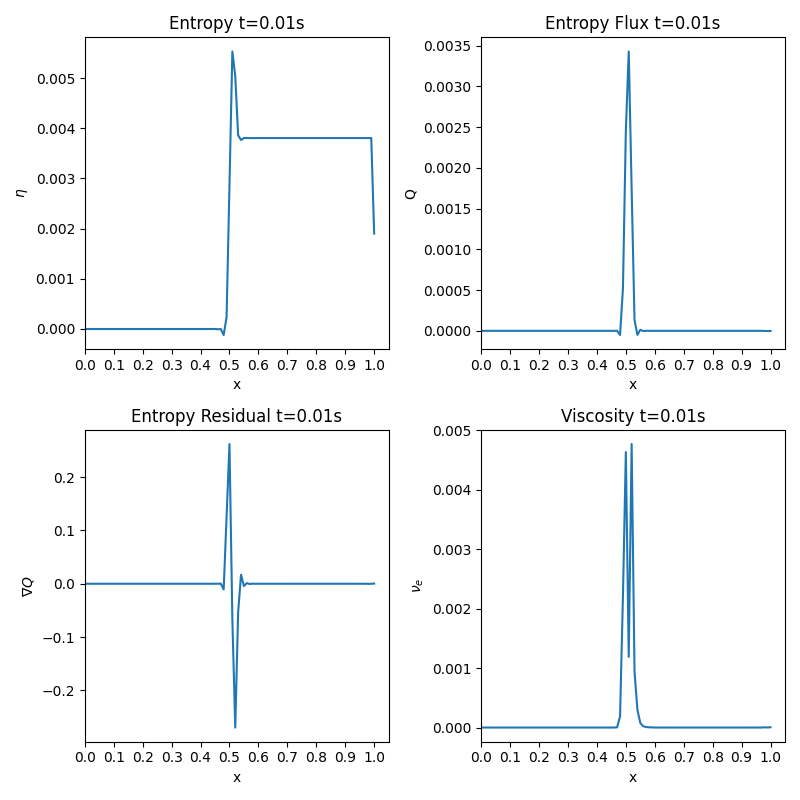
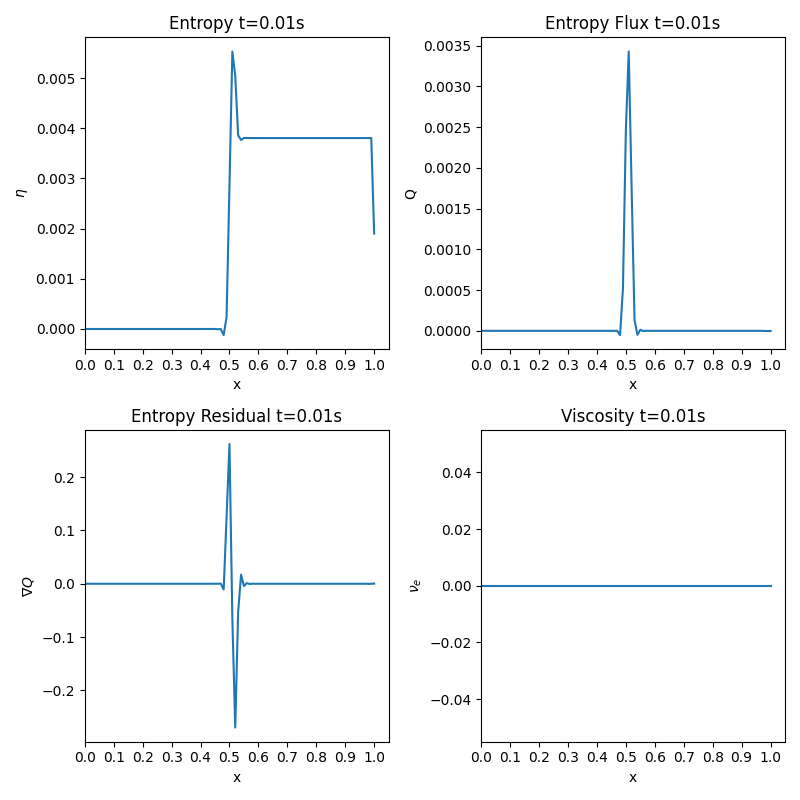
cleaned up code

diff --git a/functions.py b/functions.py
@@ -279,7 +279,97 @@ def assemble_TG_one_step(U_current, numel, xnode, N_mef, Nxi_mef, wpg, gamma, dt
             
     return M, F, K
 
-def assemble_TG_two_step(U_current, numel, xnode, N_mef, Nxi_mef, wpg, gamma, dt, viscosity_e):
+def assemble_TG_two_step(U_current, numel, xnode, N_mef, Nxi_mef, wpg, gamma, dt):
+    '''
+    (input) U_current tuple: current solution tuple
+    (input) numel int: number of elements
+    (input) xnode arr: Array with x values stored
+    (input) N_mef arr: Array with the shape function 
+    (input) Nxi_mef arr: Array with shape function derivatives
+    (input) wpg arr: Array with weights 
+    (input) gamma float: Ratio of Cv/Cp (7/5 for ideal gas)
+    (input) dt float: timestep
+
+    (output) M: Mass matrix tuple returned by function 
+    (output) F: Flux matrix tuple returned by function
+    '''
+    numnp = numel + 1
+
+    M_rho = np.zeros((numnp, numnp))
+    M_m = np.zeros((numnp, numnp))
+    M_rho_E = np.zeros((numnp, numnp))
+    M = (M_rho, M_m, M_rho_E)
+
+    F_rho = np.zeros(numnp)
+    F_m = np.zeros(numnp)
+    F_rho_E = np.zeros(numnp)
+    F = (F_rho, F_m, F_rho_E)
+
+
+    for i in range(numel):
+        h = xnode[i + 1] - xnode[i]
+        weight = wpg * h / 2
+        isp = [i, i + 1]  # Global number of the nodes of the current element
+
+        # Get value of each variable at current element  
+        rho_el =  U_current[0][isp]
+        m_el =  U_current[1][isp]
+        rho_E_el = U_current[2][isp] 
+        p_el = calc_p(gamma, rho_E_el, m_el, rho_el)
+
+        ngaus = wpg.shape[0]
+
+        F_rho_el = m_el
+        F_m_el = m_el**2/rho_el + p_el
+        F_rho_E_el = (m_el * (rho_E_el + p_el)/ rho_el)
+
+        
+        for ig in range(ngaus):
+            N = N_mef[ig, :]
+            Nx = Nxi_mef[ig, :] * 2 / h
+            w_ig = weight[ig]
+
+            # Intermediate value at integration(Gaussian) point:
+            rho_gp = np.dot(N, rho_el)
+            m_gp = np.dot(N, m_el)
+            rho_E_gp = np.dot(N, rho_E_el)
+
+            F_rho_gpx = np.dot(Nx, F_rho_el)
+            F_m_gpx = np.dot(Nx, F_m_el)
+            F_rho_E_gpx = np.dot(Nx, F_rho_E_el)
+
+            rho_inter = rho_gp - 0.5 * dt * F_rho_gpx
+            m_inter = m_gp - 0.5 * dt * F_m_gpx
+            rho_E_inter = rho_E_gp - 0.5 * dt * F_rho_E_gpx
+            p_inter = calc_p(gamma, rho_E_inter, m_inter, rho_inter)
+
+            F_rho_inter = m_inter
+            F_m_inter = m_inter**2/ rho_inter + p_inter
+            F_rho_E_inter = (m_inter * (rho_E_inter + p_inter)/ rho_inter)
+            
+
+            M_rho[np.ix_(isp, isp)] += w_ig * np.outer(N, N)
+            M_m[np.ix_(isp, isp)] += w_ig * np.outer(N, N)
+            M_rho_E[np.ix_(isp, isp)] += w_ig * np.outer(N, N)
+
+            F_rho[isp] += w_ig * (Nx * F_rho_inter)
+            F_m[isp] += w_ig * (Nx * F_m_inter)
+            F_rho_E[isp] += w_ig * (Nx * F_rho_E_inter)
+
+
+    M_rho[0,0] = 1
+    M_m[0,0] = 1
+    M_rho_E[0,0] = 1
+
+    M_rho[-1, -1] = 1
+    M_m[-1, -1] = 1
+    M_rho_E[-1, -1] = 1  
+
+
+    return M, F
+
+
+def assemble_TG_two_step_EV(U_current, numel, xnode, N_mef, Nxi_mef, wpg, gamma, dt, viscosity_e):
     '''
     (input) U_current tuple: current solution tuple
     (input) numel int: number of elements
@@ -378,6 +468,7 @@ def assemble_TG_two_step(U_current, numel, xnode, N_mef, Nxi_mef, wpg, gamma, dt
     M_m[-1, -1] = 1
     M_rho_E[-1, -1] = 1  
 
+
     viscosity_e = np.abs((h**2 * entropy_res)/np.abs((np.max(entropy)-np.min(entropy))))
 
     ## Building F_viscosity matrix
@@ -399,7 +490,10 @@ def assemble_TG_two_step(U_current, numel, xnode, N_mef, Nxi_mef, wpg, gamma, dt
         p_el = calc_p(gamma, rho_E_el, m_el, rho_el)
         u_el = m_el/rho_el
 
-        viscosity_el =  viscosity_e[isp]
+        c = np.sqrt(gamma * (p_el/rho_el)) 
+        viscosity_el_1 = 0.5 * h * ( np.abs(u_el) + c)
+        viscosity_el_2 =  viscosity_e[isp]
+        viscosity_el = np.minimum(viscosity_el_1, viscosity_el_2) # because at a shock viscosity_el_2 is huge so viscosity_el_1 must be taken 
         kinematic_visc_el = viscosity_el/rho_el
 
         kappa_el = viscosity_el/(gamma - 1)
@@ -412,74 +506,27 @@ def assemble_TG_two_step(U_current, numel, xnode, N_mef, Nxi_mef, wpg, gamma, dt
 
             kinematic_visc_gp = np.dot(N, kinematic_visc_el)
             rho_gpx = np.dot(Nx, rho_el)
+            m_gpx = np.dot(Nx, m_el)
+            rho_E_gpx = np.dot(Nx, rho_E_el)
 
             viscosity_gp = np.dot(N, viscosity_el)
+            kinematic_visc_gp = np.dot(N, kinematic_visc_el)
             u_gpx = np.dot(Nx, u_el)
 
             u_gp = np.dot(Nx, u_el)
             kappa_gp = np.dot(N, kappa_el)
             temp_gpx = np.dot(Nx, temp_el)
 
-            F_visc_rho[isp] +=   w_ig * (Nx * kinematic_visc_gp * rho_gpx)
-            F_visc_m[isp] +=  w_ig * (Nx * viscosity_gp * u_gpx)
-            F_visc_rho_E[isp] += w_ig * (Nx * (viscosity_gp * u_gpx * u_gp + kappa_gp * temp_gpx))
+            # F_visc_rho[isp] +=   - w_ig * (Nx * kinematic_visc_gp * rho_gpx)
+            # F_visc_m[isp] +=  - w_ig * (Nx * viscosity_gp * u_gpx)
+            # F_visc_rho_E[isp] += - w_ig * Nx * ((viscosity_gp * u_gpx * u_gp + kappa_gp * temp_gpx))
+
+            F_visc_rho[isp] +=   - w_ig * (Nx * viscosity_gp * rho_gpx)
+            F_visc_m[isp] +=   - w_ig * (Nx * viscosity_gp * m_gpx)
+            F_visc_rho_E[isp] +=   - w_ig * (Nx * viscosity_gp * rho_E_gpx)
 
 
     return M, F, entropy, entropy_flux, entropy_res, viscosity_e, F_visc
-
-def assemble_entropy_res(U_current, numel, xnode, N_mef, Nxi_mef, wpg, gamma):
-    '''
-    (input) U_current tuple: current solution tuple
-    (input) numel int: number of elements
-    (input) xnode arr: Array with x values stored
-    (input) N_mef arr: Array with the shape function 
-    (input) Nxi_mef arr: Array with shape function derivatives
-    (input) wpg arr: Array with weights 
-    (input) gamma float: Ratio of Cv/Cp (7/5 for ideal gas)
-
-    (output) M: Mass matrix tuple returned by function 
-    '''
-    numnp = numel + 1
-    entropy = np.zeros((numnp, numnp))
-    entropy_res = np.zeros((numnp, numnp))
-    viscosity_e = np.zeros((numnp, numnp))
-    
-    for i in range(numel):
-        h = xnode[i + 1] - xnode[i]
-        weight = wpg * h / 2
-        isp = [i, i + 1]  # Global number of the nodes of the current element
-
-        # Get value of each variable at current element  
-        rho_el =  U_current[0][isp]
-        m_el =  U_current[1][isp]
-        rho_E_el = U_current[2][isp] 
-
-        vel_el = U_current[1][isp]/U_current[0][isp]
-        p_el = calc_p(gamma, rho_E_el, m_el, rho_el)
-
-        ngaus = wpg.shape[0]
-
-        entropy_el = rho_el/(gamma-1) * np.log(p_el/rho_el**gamma)
-
-
-        entropy_flux = entropy_el * vel_el
-
-        for ig in range(ngaus):
-            N = N_mef[ig, :]
-            Nx = Nxi_mef[ig, :] * 2 / h
-            w_ig = weight[ig]
-
-            entropy_gp = np.dot(N, entropy_el) 
-            entropy_res_gp = np.dot(Nx, entropy_flux)
-
-            entropy_res[isp] += np.abs(w_ig * entropy_res_gp)
-            entropy[isp] +=  w_ig * entropy_gp 
-    
-
-    viscosity_e = (h**2 * entropy_res)/np.abs((np.max(entropy)-np.min(entropy)))
-    print(viscosity_e.shape)
-
-    return entropy_res, viscosity_e
 
 ## ANALYTIC CALCULATION FUNCTIONS
 def f(P, pL, pR, cL, cR, gamma):
@@ -540,7 +587,6 @@ def SodShockAnalytic(config, t_end):
     rho_energy = v_analytic[2]/(config['gamma']-1) + (v_analytic[0] * v_analytic[1]**2)/2
 
     return v_analytic, rho_energy
-
 
 ## Plotting Functions
 def plot_entropy_res(variables_tuple, config):

diff --git a/main.py b/main.py
@@ -35,9 +35,9 @@ def setup_simulation(t_end, stabilization_choice):
     variables_titles = ['- Density', '- Velocity', '- Pressure', '- Energy']
     y_axis_labels = ['rho', 'v', 'p', 'E']
     stabilization_graph_titles = ['1D Shock Tube (RK4-Standard Galerkin) ', '1D Shock Tube (TG2-One step)', '1D Shock Tube (TG2-Two step)', '1D Shock Tube (RK4-TG2 Two step)', 'RK4-TG2 Two-step and EV']
-    folder_paths = ['./sod_tube_RK4_standard_galerkin', './sod_tube_TG2_one_step', './sod_tube_TG2_two_step', './sod_tube_RK4_TG2_two_step', './RK4_TG2_two_step_EV']
-    file_names = ['sod_tube_RK4_standard_galerkin', 'sod_tube_TG2_one_step', './sod_tube_TG2_two_step', './sod_tube_RK4_TG2_two_step', './RK4_TG2_two_step_EV']
-    methods_file_name = ['RK4_standard_galerkin', 'TG2_one_step', 'TG2_two_step', 'RK4_TG2_two_step', 'RK4_TG2_two_step_EV']
+    folder_paths = ['./RK4_standard_galerkin', './TG2_one_step', './TG2_two_step', './RK4_TG2_two_step', './RK4_TG2_two_step_EV']
+    file_names = ['RK4_standard_galerkin', 'TG2_one_step', './TG2_two_step', './RK4_TG2_two_step', './RK4_TG2_two_step_EV']
+    methods_file_name = ['RK4_galerkin', 'TG2_one_step', 'TG2_two_step', 'RK4_TG2_two_step', 'RK4_TG2_two_step_EV']
 
     if stabilization_choice == 1:
          stabilization_graph_title = stabilization_graph_titles[0]
@@ -262,7 +262,7 @@ def run_simulation(config):
         energy = config['U'][2]
         variables_tuple = (rho, vel, final_p, energy)
 
-    if config['stabilization_choice'] == 4:
+    elif config['stabilization_choice'] == 4:
         for n in range(config['nstep']):
             print('Timestep is:', n)
             U_temp = [config['U'][0][:, n], config['U'][1][:, n], config['U'][2][:, n]]
@@ -309,39 +309,44 @@ def run_simulation(config):
         energy = config['U'][2]
         variables_tuple = (rho, vel, final_p, energy)
 
-    if config['stabilization_choice'] == 5:
+    elif config['stabilization_choice'] == 5:
         
         viscosity_e = np.zeros((config['numnp'], config['numnp']))
-        
+
+        # Butcher tableau for RK4 (f_rk == 4)
+        a = [[0,   0,   0,   0],
+            [0.5, 0,   0,   0],
+            [0,   0.5, 0,   0],
+            [0,   0,   1,   0]]
+
+        c = [0, 0.5, 0.5, 1]
+        w = [1/6, 1/3, 1/3, 1/6]
+        n_stages = 4
+
         for n in range(config['nstep']):
+
             print('timestep is', n)
+            
+            # Initialize U_temp and k for the RK stages
             U_temp = [config['U'][0][:, n], config['U'][1][:, n], config['U'][2][:, n]]
+            k = [None] * n_stages
+            
+            # Loop over RK stages
+            for s in range(n_stages):
+                # Update U_temp based on previous k values and Butcher tableau coefficients 'a'
+                if s == 0:
+                    U_temp_stage = U_temp  # k1 doesnt involve any manipulation to U_temp
+                else:
+                    U_temp_stage = [config['U'][var][:, n] + sum(a[s][j] * k[j][var] for j in range(s)) for var in range(len(U_temp))]
 
-            # k1 step
-            M_tuple, F_tuple, entropy, entropy_flux, entropy_res, viscosity_e, F_visc = assemble_TG_two_step(U_temp, config['numel'], config['xnode'], config['N_mef'], config['Nxi_mef'], config['wpg'], config['gamma'], config['dt'], viscosity_e)
-            k1 = tuple(config['dt'] * solve(M_tuple[var],  (F_tuple[var] + F_visc[var])) for var in range(len(U_temp)))
+                U_temp_stage = apply_boundary_conditions(U_temp_stage, config['numnp'])
 
-            # k2 step
-            U_temp = [config['U'][var][:, n] + 0.5 * k1[var] for var in range(len(U_temp))]
-            U_temp = apply_boundary_conditions(U_temp, config['numnp'])
-            M_tuple, F_tuple, entropy, entropy_flux, entropy_res, viscosity_e, F_visc = assemble_TG_two_step(U_temp, config['numel'], config['xnode'], config['N_mef'], config['Nxi_mef'], config['wpg'], config['gamma'], config['dt'], viscosity_e)
-            k2 = tuple(config['dt'] * solve(M_tuple[var], (F_tuple[var] + F_visc[var])) for var in range(len(U_temp)))
+                M_tuple, F_tuple, entropy, entropy_flux, entropy_res, viscosity_e, F_visc = assemble_TG_two_step_EV(U_temp_stage, config['numel'], config['xnode'], config['N_mef'], config['Nxi_mef'], config['wpg'], config['gamma'], config['dt'], viscosity_e)
 
-            # k3 step
-            U_temp = [config['U'][var][:, n] + 0.5 * k2[var] for var in range(len(U_temp))]
-            U_temp = apply_boundary_conditions(U_temp, config['numnp'])
-            M_tuple, F_tuple, entropy, entropy_flux, entropy_res, viscosity_e, F_visc = assemble_TG_two_step(U_temp, config['numel'], config['xnode'], config['N_mef'], config['Nxi_mef'], config['wpg'], config['gamma'], config['dt'], viscosity_e)
-            k3 = tuple(config['dt'] * solve(M_tuple[var], (F_tuple[var] + F_visc[var])) for var in range(len(U_temp)))
+                k[s] = tuple(config['dt'] * solve(M_tuple[var], (F_tuple[var] + F_visc[var])) for var in range(len(U_temp)))
 
-            # k4 step
-            U_temp = [config['U'][var][:, n] + k3[var] for var in range(len(U_temp))]
-            U_temp = apply_boundary_conditions(U_temp, config['numnp'])
-            M_tuple, F_tuple, entropy, entropy_flux, entropy_res, viscosity_e, F_visc = assemble_TG_two_step(U_temp, config['numel'], config['xnode'], config['N_mef'], config['Nxi_mef'], config['wpg'], config['gamma'], config['dt'], viscosity_e)
-            k4 = tuple(config['dt'] * solve(M_tuple[var], (F_tuple[var] + F_visc[var])) for var in range(len(U_temp)))
-
-            # Update solution
             for var in range(len(config['U'])):
-                config['U'][var][:, n + 1] = config['U'][var][:, n] + (1.0 / 6.0) * (k1[var] + 2 * k2[var] + 2 * k3[var] + k4[var])
+                config['U'][var][:, n + 1] = config['U'][var][:, n] + sum(w[s] * k[s][var] for s in range(n_stages))
 
             # Apply boundary conditions again
             config['U'][0][0, n+1] = 1.0
@@ -359,7 +364,7 @@ def run_simulation(config):
         energy = config['U'][2]
         variables_tuple = (rho, vel, final_p, energy, entropy, entropy_flux, entropy_res, viscosity_e)
 
-    return variables_tuple
+    return variables_tuple      
 
     
 # Main Execution
@@ -369,7 +374,9 @@ def main():
     variables_tuple = run_simulation(config)
     analytic, rho_energy_analytic = SodShockAnalytic(config, t_end)  
     plot_solution(t_end, variables_tuple, config, analytic, rho_energy_analytic)
-    plot_entropy_res(variables_tuple, config)
+
+    if config['stabilization_choice'] == 5:
+        plot_entropy_res(variables_tuple, config)
 
     # for var in range (len(variables_tuple)):
 
